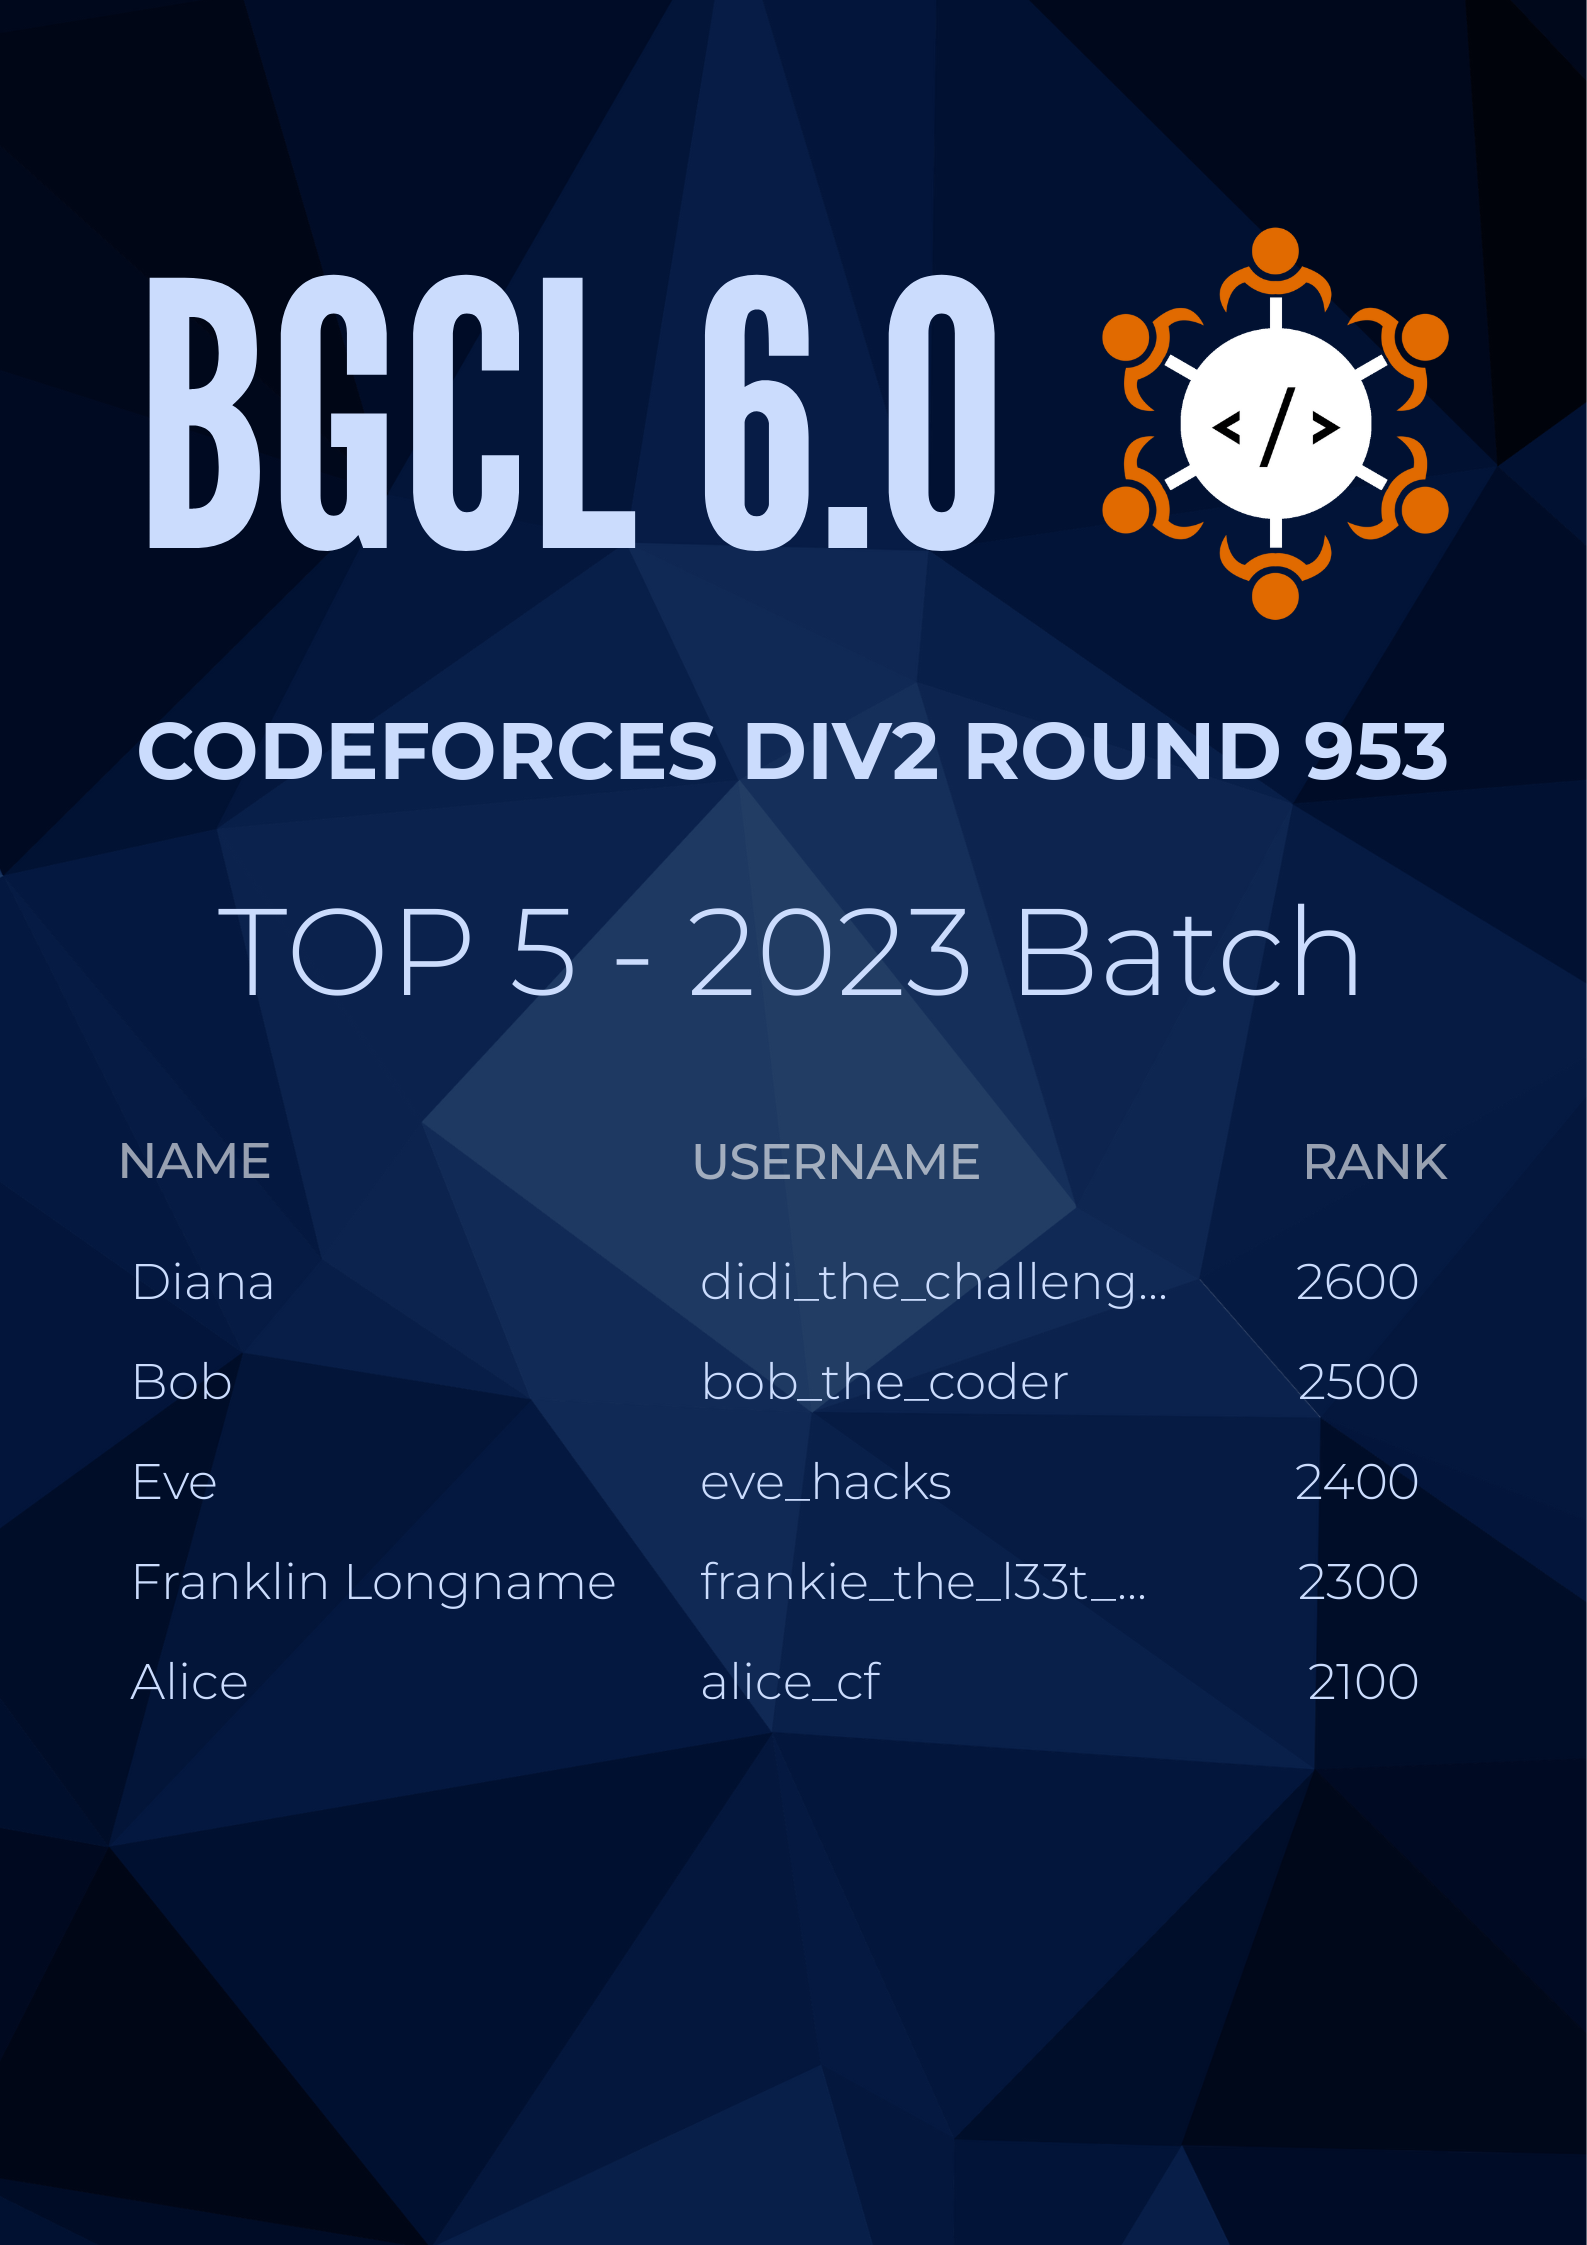
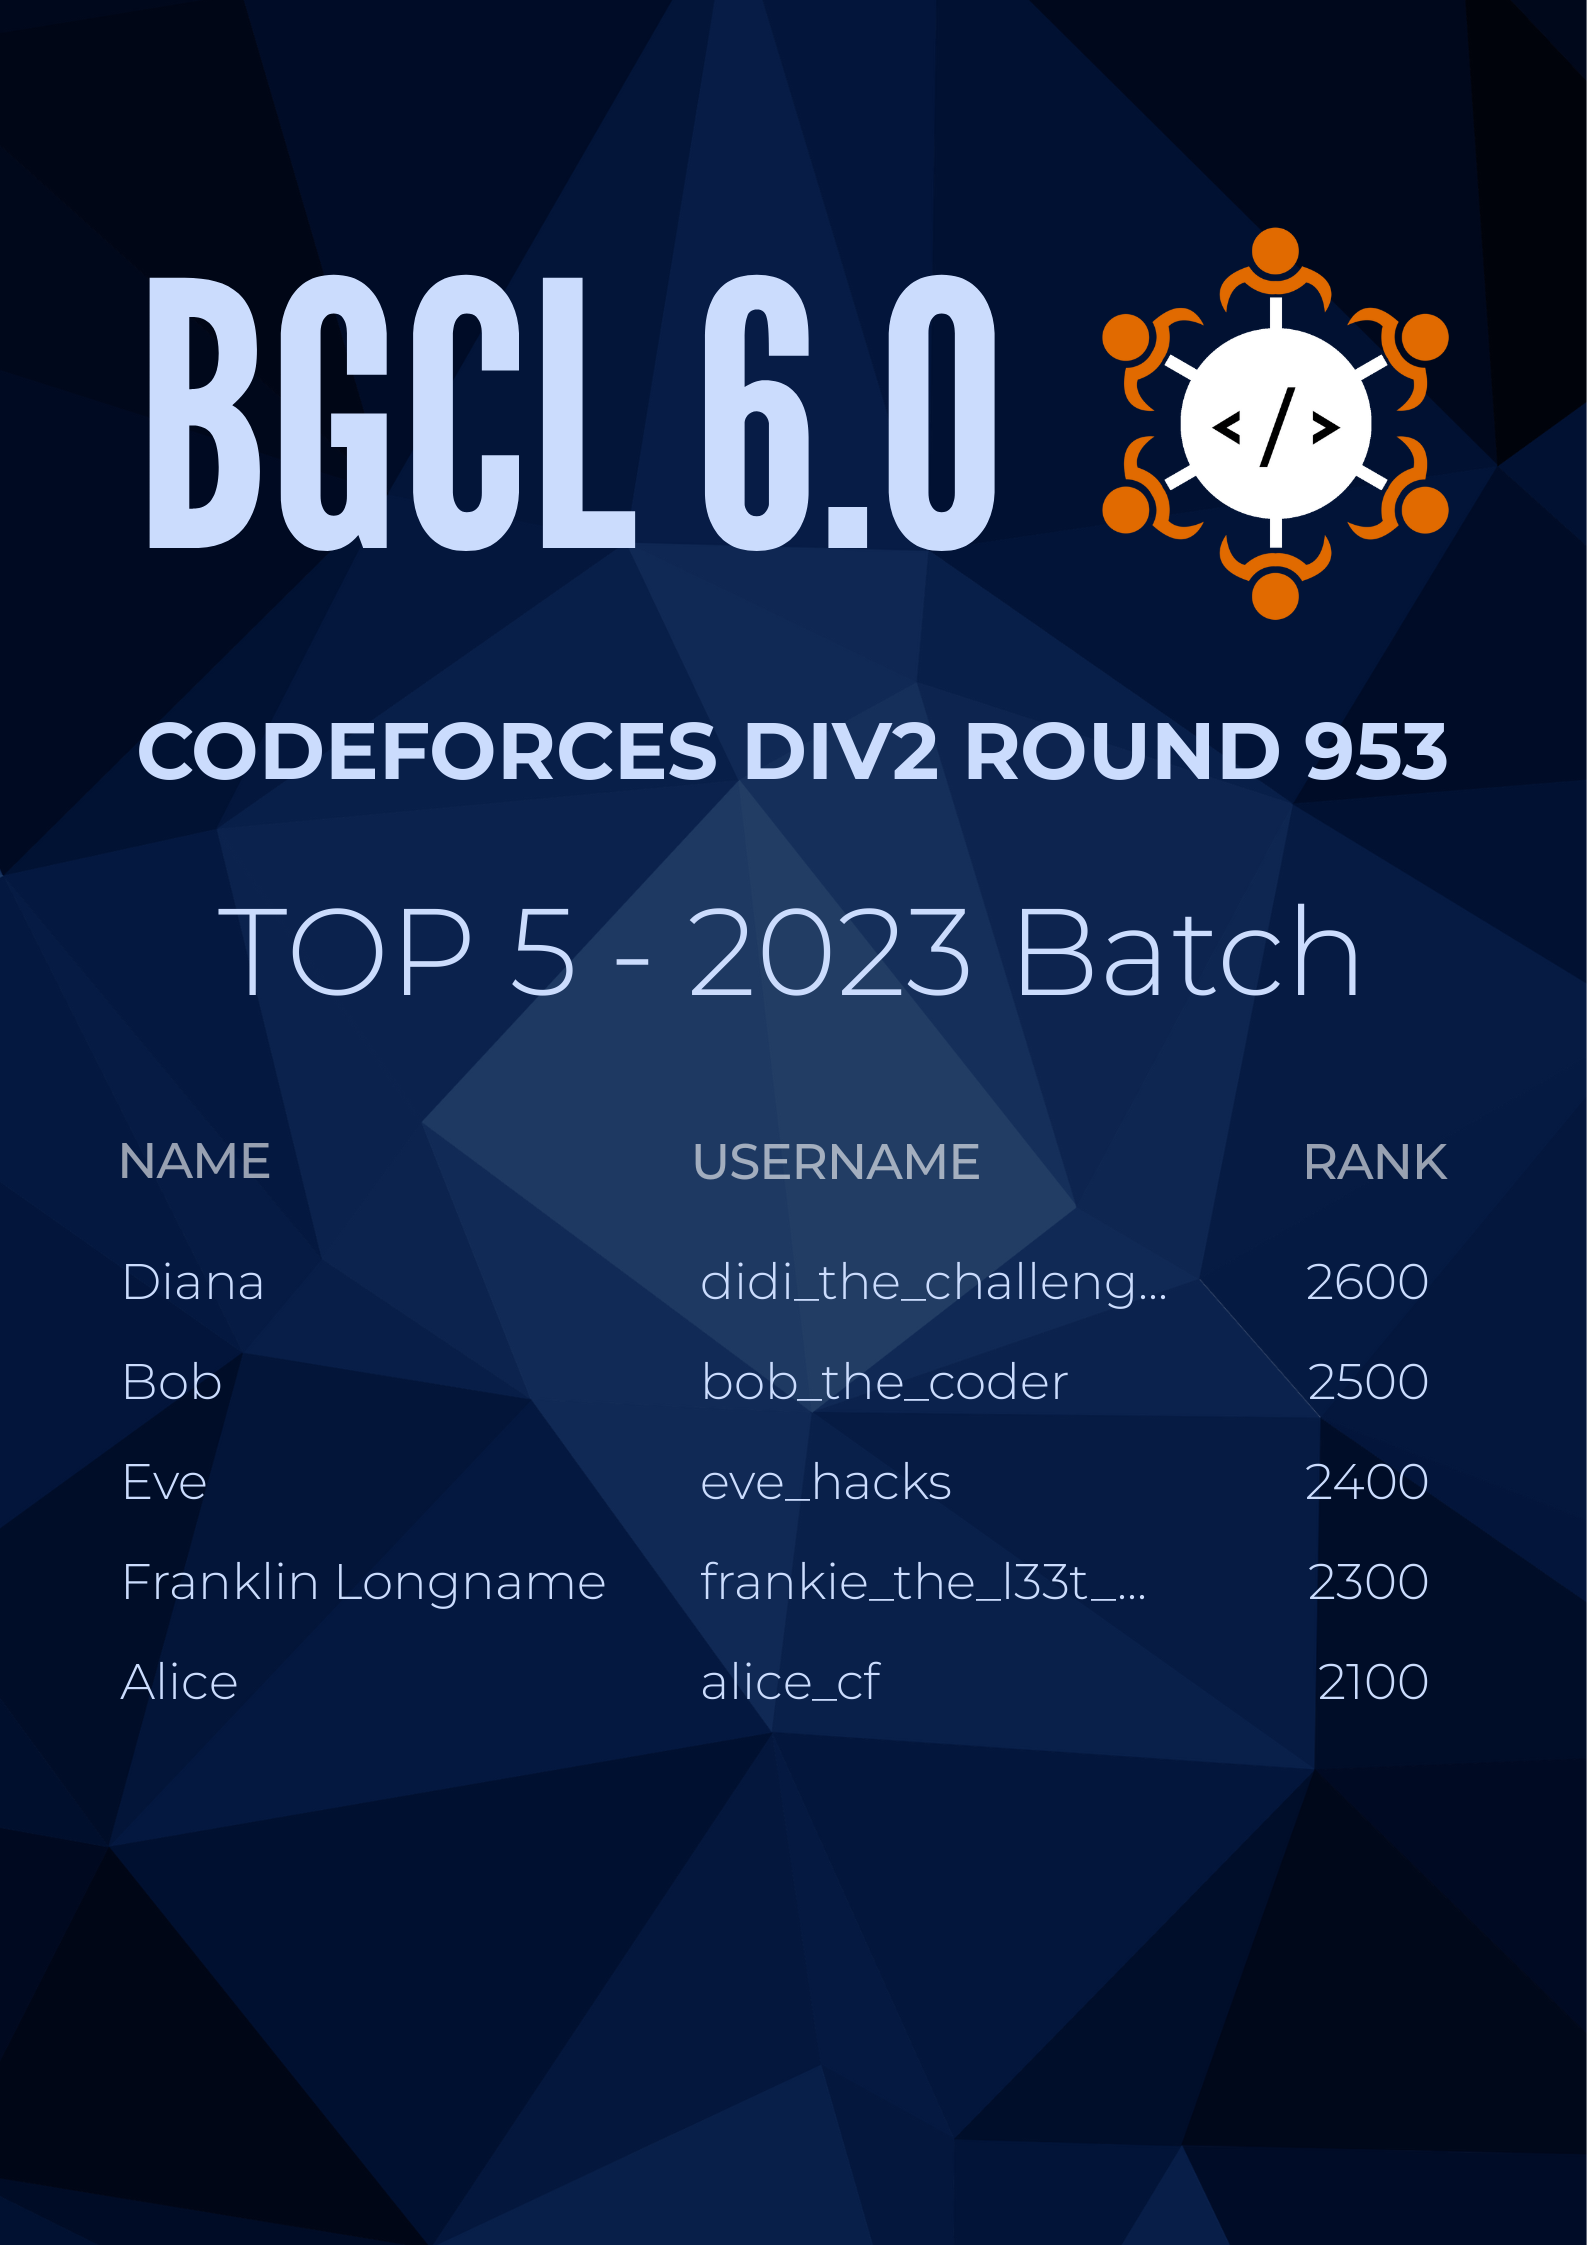
updated the position for the name, and rank

diff --git a/main.py b/main.py
@@ -41,9 +41,9 @@ draw.text((width//2, 950), "TOP 5 - 2023 Batch", font = title_font, fill = "#cbd
 # Table start
 start_y = 1250
 gap = 100
-x_name = 130
+x_name = 120
 x_handle = 700
-x_points = 1420
+x_points = 1430
 
 for idx, (name, handle, points) in enumerate(top_5):
     y = start_y + idx * gap
